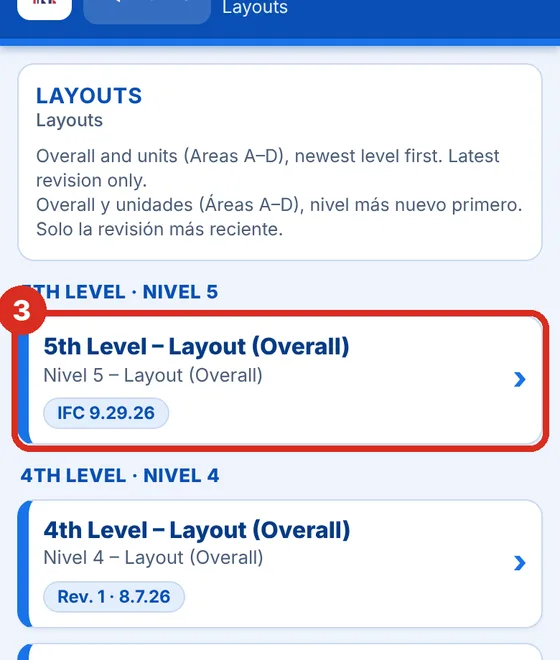
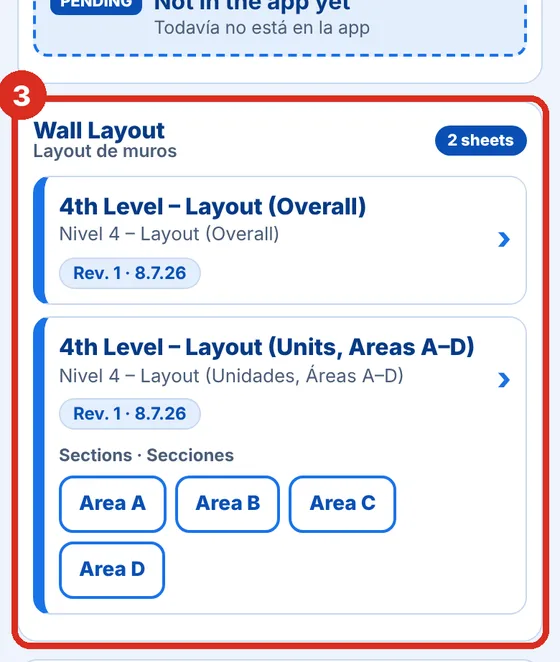
NF WALLS v2.0 (Update 2): levels 3-7, version button, section placeholders
- Home with Level 3-7 buttons; each level shows 6 formats
- Full plan plus section buttons; PENDING rows where sheets are missing
- Version button (green/yellow/red dot) and version.json check
- Window straps: install detail tab (level 3)
- Control lines and wall layout: by-section placeholders (pending)

Claude-Session: https://claude.ai/code/session_01FYN1TKzUqA6EKVSAhWFFxo

diff --git a/index.html b/index.html
@@ -109,19 +109,69 @@ button{font:inherit;color:inherit;background:none;border:0;padding:0;margin:0;cu
 .how .st img{display:block;width:100%;height:auto;border-radius:10px;border:1px solid var(--line);margin-top:8px}
 .how .air{background:var(--soft);border:2px dashed var(--nf2);border-radius:12px;padding:14px;text-align:center;margin-top:8px;font-weight:800;color:var(--nfd);font-size:16px}
 .how .air span{display:block;font-size:34px;line-height:1.1}
+
+/* update 2 */
+.hdr .upd{display:inline-flex;align-items:center;gap:6px;padding:4px 10px;min-height:30px;cursor:pointer;font-size:12px}
+.hdr .upd:active{background:rgba(255,255,255,.3)}
+.hdr .updbar{padding-bottom:2px}
+.vdot{display:inline-block;width:13px;height:13px;border-radius:50%;border:2px solid #fff;background:#facc15;flex:0 0 auto}
+.vdot.g{background:#22c55e}.vdot.r{background:#ef4444}
+.lvb{display:flex;align-items:center;gap:12px;width:100%;text-align:left;background:#fff;border:2px solid var(--line);border-left:8px solid var(--nf2);border-radius:14px;padding:10px 12px;margin:0 0 10px 0;min-height:70px;box-shadow:0 1px 2px rgba(7,58,133,.08)}
+.lvb:active{background:var(--soft)}
+.lvb .num{flex:0 0 52px;height:52px;border-radius:12px;background:var(--nf);color:#fff;font-weight:800;font-size:30px;display:flex;align-items:center;justify-content:center}
+.lvb .tx{flex:1 1 auto;min-width:0}
+.lvb .n{font-weight:800;font-size:17px;color:var(--nfd)}
+.lvb .b{font-size:12.5px;color:var(--muted)}
+.lvb .go{font-size:24px;color:var(--nf2);font-weight:800}
+.lvb.empty .num{background:#fff;color:var(--nf);border:2px dashed var(--nf2)}
+.typebar{display:flex;gap:6px;flex-wrap:wrap;margin-top:4px}
+.typebar button{flex:1 1 auto;min-height:44px;border:2px solid var(--nf2);border-radius:10px;color:var(--nf);font-weight:700;background:#fff;padding:6px 10px;font-size:14px}
+.slot{background:#fff;border:1px solid var(--line);border-radius:14px;padding:10px;margin:0 0 12px 0}
+.slot .sh{display:flex;align-items:center;gap:8px;margin:0 0 8px 0}
+.slot .s1{flex:1 1 auto;font-weight:800;font-size:16px;color:var(--nfd);line-height:1.15}
+.slot .s1 small{display:block;font-weight:600;font-size:12.5px;color:var(--muted)}
+.bdg{flex:0 0 auto;font-size:11px;font-weight:800;border-radius:999px;padding:3px 9px}
+.bdg.ok{background:var(--nf);color:#fff}
+.bdg.pe{background:#fff;color:var(--nf);border:2px dashed var(--nf2)}
+.lvit{border:1px solid var(--line);border-left:8px solid var(--nf2);border-radius:12px;margin:0 0 8px 0;background:#fff;overflow:hidden}
+.lvit .item{border:0;border-radius:0;margin:0;box-shadow:none;border-left:0}
+.lvit .all{display:inline-block;margin-top:6px;margin-left:6px;font-size:11.5px;font-weight:700;color:var(--nfd);background:#fff;border:1px solid var(--nf2);border-radius:999px;padding:2px 9px}
+.chips{display:flex;gap:6px;flex-wrap:wrap;align-items:center;padding:0 10px 10px 10px}
+.chips span{flex:0 0 100%;font-size:12px;font-weight:700;color:var(--muted)}
+.chip{min-height:40px;min-width:48px;border-radius:10px;border:2px solid var(--nf2);color:var(--nf);font-weight:800;padding:4px 12px;background:#fff;font-size:14px}
+.chip:active{background:var(--soft)}
+.vstat{border:3px solid var(--nf);border-radius:16px;padding:14px;background:#fff;margin:0 0 12px 0}
+.vstat .big{display:flex;align-items:center;gap:10px;font-weight:800;font-size:18px;color:var(--nfd)}
+.vstat .big .vdot{width:22px;height:22px;border-width:3px;border-color:var(--nfd)}
+.vstat p{margin:8px 0 0 0;font-size:14px;color:var(--txt)}
+.vstat p i{color:var(--muted)}
+.vstat .ubtn{margin-top:12px;display:block;width:100%;background:var(--nf);color:#fff;border-radius:12px;padding:14px;font-weight:800;font-size:16px;min-height:52px}
+.vstat .ubtn:disabled{opacity:.7}
+.vkey{display:flex;flex-direction:column;gap:6px;margin-top:10px;font-size:13px;color:var(--txt)}
+.vkey div{display:flex;align-items:center;gap:8px}
+.vkey .vdot{border-color:var(--nfd)}
+.vrow{background:#fff;border:1px solid var(--line);border-left:8px solid var(--nf2);border-radius:12px;padding:10px;margin:0 0 10px 0}
+.vrow.cur{border-left-color:var(--nf);background:var(--soft)}
+.vrow .vh{display:flex;gap:8px;align-items:center;flex-wrap:wrap}
+.vrow .vn{font-weight:800;font-size:16px;color:var(--nfd)}
+.vrow .vd{font-size:12.5px;color:var(--muted)}
+.vrow .me{font-size:11px;font-weight:800;color:#fff;background:var(--nf);border-radius:6px;padding:2px 7px}
+.vrow ul{margin:6px 0 0 18px;padding:0;font-size:13.5px}
+.vrow li i{color:var(--muted)}
 </style>
 </head>
 <body>
 <div id="app"></div>
 <div class="bottombar" id="bottombar">
   <button id="bb-home" onclick="go('#home')">Home<span>Inicio</span></button>
-  <button id="bb-cl" onclick="go('#sec--cl')">Control<span>Líneas</span></button>
-  <button id="bb-lay" onclick="go('#sec--lay')">Layouts<span>Layouts</span></button>
-  <button id="bb-sw" onclick="go('#sec--sw')">Shear<span>Shear walls</span></button>
-  <button id="bb-str" onclick="go('#sec--str')">Straps<span>Straps</span></button>
+  <button id="bb-l3" onclick="go('#lvl--3')">L3<span>Nivel 3</span></button>
+  <button id="bb-l4" onclick="go('#lvl--4')">L4<span>Nivel 4</span></button>
+  <button id="bb-l5" onclick="go('#lvl--5')">L5<span>Nivel 5</span></button>
+  <button id="bb-l6" onclick="go('#lvl--6')">L6<span>Nivel 6</span></button>
+  <button id="bb-l7" onclick="go('#lvl--7')">L7<span>Nivel 7</span></button>
 </div>
 <script>
-const DATA={"upd": {"n": 1, "date": "Nov 6, 2026"}, "sections": [{"id": "cl", "t": "Control Lines", "es": "Líneas de control", "icon": "┼", "sub": "Overall control lines. Measurements: use the overall sheet; unit-level control lines are pending (see Pending).", "sub_es": "Líneas de control overall. Medidas: usa la hoja overall; las de unidades están pendientes (ver Pendiente).", "items": [{"id": "cl3", "t": "3rd Level – Control Lines (Overall)", "es": "Nivel 3 – Líneas de control (Overall)", "rev": "W-3-10-2026", "src": "Control Lines (W-3-10-2026).pdf", "imgs": [["Overall", "cl_W3"]], "note": "Title block: Mueller Phase V West Building, 3rd level.", "note_es": "Cajetín: Mueller Phase V West Building, nivel 3."}]}, {"id": "lay", "t": "Layouts", "es": "Layouts", "icon": "▦", "sub": "Overall and units (Areas A–D), newest level first. Latest revision only.", "sub_es": "Overall y unidades (Áreas A–D), nivel más nuevo primero. Solo la revisión más reciente.", "items": [{"g": "5th Level", "g_es": "Nivel 5", "id": "l5o", "t": "5th Level – Layout (Overall)", "es": "Nivel 5 – Layout (Overall)", "rev": "IFC 9.29.26", "src": "Mueller_V_West_5th_Floor_Layout_Overall_IFC_9_29_26.pdf", "imgs": [["Overall", "L5_overall"]], "note": "Overall: door and window schedules on the left of the sheet.", "note_es": "Overall: tablas de puertas y ventanas a la izquierda de la hoja."}, {"g": "4th Level", "g_es": "Nivel 4", "id": "l4o", "t": "4th Level – Layout (Overall)", "es": "Nivel 4 – Layout (Overall)", "rev": "Rev. 1 · 8.7.26", "src": "Mueller V (West) - 4th Floor - Layout (Overall) - Rev. 1 - 8.7.26.pdf", "imgs": [["Overall", "L4_overall"]], "note": "Overall: door and window schedules on the left of the sheet.", "note_es": "Overall: tablas de puertas y ventanas a la izquierda de la hoja."}, {"g": "4th Level", "g_es": "Nivel 4", "id": "l4u", "t": "4th Level – Layout (Units, Areas A–D)", "es": "Nivel 4 – Layout (Unidades, Áreas A–D)", "rev": "Rev. 1 · 8.7.26", "src": "Mueller V (West) - 4th Floor - Layout (Area A..D) - Rev. 1 - 8.7.26.pdf", "imgs": [["Area A", "L4_A"], ["Area B", "L4_B"], ["Area C", "L4_C"], ["Area D", "L4_D"]], "note": "One sheet per area, same revision.", "note_es": "Una hoja por área, misma revisión."}, {"g": "3rd Level", "g_es": "Nivel 3", "id": "l3o", "t": "3rd Level – Layout (Overall)", "es": "Nivel 3 – Layout (Overall)", "rev": "Rev. 1 · 6/22/26", "src": "Mueller_V_West_3rd_Floor_Layout_Overall_Rev_1_6_22_26.pdf", "imgs": [["Overall", "L3_overall"]], "note": "", "note_es": ""}, {"g": "3rd Level", "g_es": "Nivel 3", "id": "l3u", "t": "3rd Level – Layout (Units, Areas A–D)", "es": "Nivel 3 – Layout (Unidades, Áreas A–D)", "rev": "PRELIMINARY · 3/1/26", "src": "AMLI_Mueller_V_West_3rd_Floor_Layout_Area_A..D_Preliminary_3_1_26.pdf", "imgs": [["Area A", "L3_A"], ["Area B", "L3_B"], ["Area C", "L3_C"], ["Area D", "L3_D"]], "note": "PRELIMINARY – no newer area sheets found. Confirm with the panel designer before using.", "note_es": "PRELIMINAR – no se encontraron hojas de áreas más nuevas. Confirma con el diseñador antes de usar.", "flag": true}]}, {"id": "sw", "t": "Shear Walls", "es": "Shear walls", "icon": "◧", "sub": "Standard notes (S0-2C Rev.2) and interior shear blocking Rev2 for levels 4, 5 and 6.", "sub_es": "Notas estándar (S0-2C Rev.2) y bloqueo de corte interior Rev2 de los niveles 4, 5 y 6.", "items": [{"id": "s02c", "t": "S0-2C – Standard Shearwall Notes & Schedules", "es": "S0-2C – Notas y tablas estándar de shear walls", "rev": "Rev.2", "src": "S0-2C-STANDARD-SHEARWALL-NOTES-AND-SCHEDULES-Rev.2.pdf", "imgs": [["S0-2C", "s02c_rev2"]], "note": "Wall types (W1, W3, W5…), sheathing and nailing schedules. Rev.2 replaces Rev.1.", "note_es": "Tipos de pared (W1, W3, W5…), tablas de sheathing y clavado. Rev.2 reemplaza a Rev.1."}, {"id": "sw4", "t": "4th Level – Shear Blocking, Interior (Rev2)", "es": "Nivel 4 – Bloqueo de corte interior (Rev2)", "rev": "Rev2 · 11/04/26", "src": "Shear Blocking Int. 4th Level - AMLI West - Rev2.pdf", "imgs": [["5A/5B", "sw4_5AB"], ["4D", "sw4_4D"], ["4C", "sw4_4C"], ["4B", "sw4_4B"], ["4A", "sw4_4A"], ["3C", "sw4_3C"], ["3B", "sw4_3B"], ["3A", "sw4_3A"]], "note": "Blocking marked in red = can be left out for plumbing (max 20% on W1/W3/W5 walls). Verify the 20% rule per level.", "note_es": "Bloqueo marcado en rojo = se puede omitir por plomería (máx. 20% en paredes W1/W3/W5). Verifica la regla del 20% por nivel."}, {"id": "sw5", "t": "5th Level – Shear Blocking, Interior (Rev2)", "es": "Nivel 5 – Bloqueo de corte interior (Rev2)", "rev": "Rev2 · 11/04/26", "src": "Shear Blocking Int. 5th Level - AMLI West - Rev2.pdf", "imgs": [["5A", "sw5_5A"], ["5B", "sw5_5B"], ["4D", "sw5_4D"], ["4C", "sw5_4C"], ["4B", "sw5_4B"], ["4A", "sw5_4A"], ["3C", "sw5_3C"], ["3B", "sw5_3B"], ["3A", "sw5_3A"]], "note": "Blocking marked in red = can be left out for plumbing (max 20% on W1/W3/W5 walls). Verify the 20% rule per level.", "note_es": "Bloqueo marcado en rojo = se puede omitir por plomería (máx. 20% en paredes W1/W3/W5). Verifica la regla del 20% por nivel."}, {"id": "sw6", "t": "6th Level – Shear Blocking, Interior (Rev2)", "es": "Nivel 6 – Bloqueo de corte interior (Rev2)", "rev": "Rev2 · 11/04/26", "src": "Shear Blocking Int. 6th Level - AMLI West - Rev2.pdf", "imgs": [["5A", "sw6_5A"], ["5B", "sw6_5B"], ["4D", "sw6_4D"], ["4C", "sw6_4C"], ["4B", "sw6_4B"], ["4A", "sw6_4A"], ["3C", "sw6_3C"], ["3B", "sw6_3B"], ["3A", "sw6_3A"]], "note": "Blocking marked in red = can be left out for plumbing (max 20% on W1/W3/W5 walls). Verify the 20% rule per level.", "note_es": "Bloqueo marcado en rojo = se puede omitir por plomería (máx. 20% en paredes W1/W3/W5). Verifica la regla del 20% por nivel."}]}, {"id": "str", "t": "Straps", "es": "Straps (FTAO)", "icon": "≡", "sub": "FTAO strap top & bottom of openings – windows.", "sub_es": "Straps FTAO arriba y abajo de aberturas – ventanas.", "items": [{"id": "str3", "t": "3rd Level – FTAO Window Straps", "es": "Nivel 3 – Straps FTAO en ventanas", "rev": "W-7-10-2026 · update 7.14.26", "src": "FTAO-WINDOW STRAPS (W-7-10-2026).pdf", "imgs": [["Plan", "straps_W7"]], "note": "Typical FTAO strapping detail is on the sheet (bottom right).", "note_es": "El detalle típico de straps FTAO está en la hoja (abajo a la derecha)."}]}], "pending": [["Control lines – units, and levels 4/5/6", "Líneas de control – unidades, y niveles 4/5/6"], ["6th Level layout (overall + areas)", "Layout nivel 6 (overall + áreas)"], ["5th Level layout – Areas A–D", "Layout nivel 5 – Áreas A–D"], ["Shear wall location plan – West", "Plano de ubicación de shear walls – West"], ["Straps for levels 4, 5 and 6", "Straps de los niveles 4, 5 y 6"]]};
+const DATA={"upd": {"n": 2, "date": "Nov 9, 2026", "v": "2.0"}, "sections": [{"id": "cl", "t": "Control Lines", "es": "Líneas de control", "icon": "┼", "sub": "Overall control lines. Measurements: use the overall sheet; unit-level control lines are pending (see Pending).", "sub_es": "Líneas de control overall. Medidas: usa la hoja overall; las de unidades están pendientes (ver Pendiente).", "items": [{"id": "cl3", "t": "3rd Level – Control Lines (Overall)", "es": "Nivel 3 – Líneas de control (Overall)", "rev": "W-3-10-2026", "src": "Control Lines (W-3-10-2026).pdf", "imgs": [["Overall", "cl_W3"]], "note": "Title block: Mueller Phase V West Building, 3rd level.", "note_es": "Cajetín: Mueller Phase V West Building, nivel 3."}]}, {"id": "lay", "t": "Layouts", "es": "Layouts", "icon": "▦", "sub": "Overall and units (Areas A–D), newest level first. Latest revision only.", "sub_es": "Overall y unidades (Áreas A–D), nivel más nuevo primero. Solo la revisión más reciente.", "items": [{"g": "5th Level", "g_es": "Nivel 5", "id": "l5o", "t": "5th Level – Layout (Overall)", "es": "Nivel 5 – Layout (Overall)", "rev": "IFC 9.29.26", "src": "Mueller_V_West_5th_Floor_Layout_Overall_IFC_9_29_26.pdf", "imgs": [["Overall", "L5_overall"]], "note": "Overall: door and window schedules on the left of the sheet.", "note_es": "Overall: tablas de puertas y ventanas a la izquierda de la hoja."}, {"g": "4th Level", "g_es": "Nivel 4", "id": "l4o", "t": "4th Level – Layout (Overall)", "es": "Nivel 4 – Layout (Overall)", "rev": "Rev. 1 · 8.7.26", "src": "Mueller V (West) - 4th Floor - Layout (Overall) - Rev. 1 - 8.7.26.pdf", "imgs": [["Overall", "L4_overall"]], "note": "Overall: door and window schedules on the left of the sheet.", "note_es": "Overall: tablas de puertas y ventanas a la izquierda de la hoja."}, {"g": "4th Level", "g_es": "Nivel 4", "id": "l4u", "t": "4th Level – Layout (Units, Areas A–D)", "es": "Nivel 4 – Layout (Unidades, Áreas A–D)", "rev": "Rev. 1 · 8.7.26", "src": "Mueller V (West) - 4th Floor - Layout (Area A..D) - Rev. 1 - 8.7.26.pdf", "imgs": [["Area A", "L4_A"], ["Area B", "L4_B"], ["Area C", "L4_C"], ["Area D", "L4_D"]], "note": "One sheet per area, same revision.", "note_es": "Una hoja por área, misma revisión."}, {"g": "3rd Level", "g_es": "Nivel 3", "id": "l3o", "t": "3rd Level – Layout (Overall)", "es": "Nivel 3 – Layout (Overall)", "rev": "Rev. 1 · 6/22/26", "src": "Mueller_V_West_3rd_Floor_Layout_Overall_Rev_1_6_22_26.pdf", "imgs": [["Overall", "L3_overall"]], "note": "", "note_es": ""}, {"g": "3rd Level", "g_es": "Nivel 3", "id": "l3u", "t": "3rd Level – Layout (Units, Areas A–D)", "es": "Nivel 3 – Layout (Unidades, Áreas A–D)", "rev": "PRELIMINARY · 3/1/26", "src": "AMLI_Mueller_V_West_3rd_Floor_Layout_Area_A..D_Preliminary_3_1_26.pdf", "imgs": [["Area A", "L3_A"], ["Area B", "L3_B"], ["Area C", "L3_C"], ["Area D", "L3_D"]], "note": "PRELIMINARY – no newer area sheets found. Confirm with the panel designer before using.", "note_es": "PRELIMINAR – no se encontraron hojas de áreas más nuevas. Confirma con el diseñador antes de usar.", "flag": true}]}, {"id": "sw", "t": "Shear Walls", "es": "Shear walls", "icon": "◧", "sub": "Standard notes (S0-2C Rev.2) and interior shear blocking Rev2 for levels 4, 5 and 6.", "sub_es": "Notas estándar (S0-2C Rev.2) y bloqueo de corte interior Rev2 de los niveles 4, 5 y 6.", "items": [{"id": "s02c", "t": "S0-2C – Standard Shearwall Notes & Schedules", "es": "S0-2C – Notas y tablas estándar de shear walls", "rev": "Rev.2", "src": "S0-2C-STANDARD-SHEARWALL-NOTES-AND-SCHEDULES-Rev.2.pdf", "imgs": [["S0-2C", "s02c_rev2"]], "note": "Wall types (W1, W3, W5…), sheathing and nailing schedules. Rev.2 replaces Rev.1.", "note_es": "Tipos de pared (W1, W3, W5…), tablas de sheathing y clavado. Rev.2 reemplaza a Rev.1."}, {"id": "sw4", "t": "4th Level – Shear Blocking, Interior (Rev2)", "es": "Nivel 4 – Bloqueo de corte interior (Rev2)", "rev": "Rev2 · 11/04/26", "src": "Shear Blocking Int. 4th Level - AMLI West - Rev2.pdf", "imgs": [["5A/5B", "sw4_5AB"], ["4D", "sw4_4D"], ["4C", "sw4_4C"], ["4B", "sw4_4B"], ["4A", "sw4_4A"], ["3C", "sw4_3C"], ["3B", "sw4_3B"], ["3A", "sw4_3A"]], "note": "Blocking marked in red = can be left out for plumbing (max 20% on W1/W3/W5 walls). Verify the 20% rule per level.", "note_es": "Bloqueo marcado en rojo = se puede omitir por plomería (máx. 20% en paredes W1/W3/W5). Verifica la regla del 20% por nivel."}, {"id": "sw5", "t": "5th Level – Shear Blocking, Interior (Rev2)", "es": "Nivel 5 – Bloqueo de corte interior (Rev2)", "rev": "Rev2 · 11/04/26", "src": "Shear Blocking Int. 5th Level - AMLI West - Rev2.pdf", "imgs": [["5A", "sw5_5A"], ["5B", "sw5_5B"], ["4D", "sw5_4D"], ["4C", "sw5_4C"], ["4B", "sw5_4B"], ["4A", "sw5_4A"], ["3C", "sw5_3C"], ["3B", "sw5_3B"], ["3A", "sw5_3A"]], "note": "Blocking marked in red = can be left out for plumbing (max 20% on W1/W3/W5 walls). Verify the 20% rule per level.", "note_es": "Bloqueo marcado en rojo = se puede omitir por plomería (máx. 20% en paredes W1/W3/W5). Verifica la regla del 20% por nivel."}, {"id": "sw6", "t": "6th Level – Shear Blocking, Interior (Rev2)", "es": "Nivel 6 – Bloqueo de corte interior (Rev2)", "rev": "Rev2 · 11/04/26", "src": "Shear Blocking Int. 6th Level - AMLI West - Rev2.pdf", "imgs": [["5A", "sw6_5A"], ["5B", "sw6_5B"], ["4D", "sw6_4D"], ["4C", "sw6_4C"], ["4B", "sw6_4B"], ["4A", "sw6_4A"], ["3C", "sw6_3C"], ["3B", "sw6_3B"], ["3A", "sw6_3A"]], "note": "Blocking marked in red = can be left out for plumbing (max 20% on W1/W3/W5 walls). Verify the 20% rule per level.", "note_es": "Bloqueo marcado en rojo = se puede omitir por plomería (máx. 20% en paredes W1/W3/W5). Verifica la regla del 20% por nivel."}]}, {"id": "str", "t": "Straps", "es": "Straps (FTAO)", "icon": "≡", "sub": "FTAO strap top & bottom of openings – windows.", "sub_es": "Straps FTAO arriba y abajo de aberturas – ventanas.", "items": [{"id": "str3", "t": "3rd Level – FTAO Window Straps", "es": "Nivel 3 – Straps FTAO en ventanas", "rev": "W-7-10-2026 · update 7.14.26", "src": "FTAO-WINDOW STRAPS (W-7-10-2026).pdf", "imgs": [["Plan", "straps_W7"], ["Install detail", "straps_W7_detail"]], "note": "Install detail tab = the typical FTAO strapping detail from this sheet. Per its notes: straps go on the EXTERIOR over the structural panel sheathing; install as close to the opening as possible (offset max 2 in. if needed); add blocking as required. The engineer sheet governs.", "note_es": "Pestaña Install detail = el detalle típico de straps FTAO de esta hoja. Según sus notas: los straps van en el EXTERIOR sobre el sheathing estructural; instálalos lo más cerca posible de la abertura (desfase máx. 2 pulg. si hace falta); agrega blocking según se requiera. Manda la hoja del ingeniero.", "cl": ["Views", "Vistas"]}]}], "pending": [["Overall control lines and overall wall layouts split into sections (section structure per level needed)", "Líneas de control y layouts de muros overall divididos en secciones (falta la estructura de secciones por nivel)"], ["Control lines – by unit, and levels 4/5/6", "Líneas de control – por unidad, y niveles 4/5/6"], ["Wall Panel Layout – all levels (sheet to be confirmed)", "Layout de paneles de muro – todos los niveles (hoja por confirmar)"], ["Sill plate connection / shear wall location plan – West", "Conexión de sill plate / plano de ubicación de shear walls – West"], ["Layout level 6 (overall + areas) and level 5 Areas A–D", "Layout nivel 6 (overall + áreas) y nivel 5 Áreas A–D"], ["Window straps for levels 4, 5 and 6", "Straps de ventanas de los niveles 4, 5 y 6"], ["All sheets for level 7", "Todas las hojas del nivel 7"], ["Millwork by level and section", "Millwork por nivel y sección"]], "versions": [{"v": "2.0", "n": 2, "date": "Nov 9, 2026", "items": [["Home now has Level 3–7 buttons; each level shows its formats.", "Inicio con botones de Nivel 3–7; cada nivel muestra sus formatos."], ["Full plan plus section buttons under each sheet.", "Plano completo y botones de sección debajo de cada hoja."], ["Version button (top right) with green / yellow / red dot.", "Botón de versión (arriba a la derecha) con punto verde / amarillo / rojo."], ["Window straps: install detail tab (level 3).", "Straps de ventanas: pestaña de detalle de instalación (nivel 3)."], ["Control lines and wall layout: section buttons are marked PENDING until the section sheets arrive.", "Líneas de control y layout de muros: los botones de sección dicen PENDING hasta que lleguen las hojas por sección."]]}, {"v": "1.2", "n": 1, "date": "Nov 7, 2026", "items": [["HOW IT WORKS page (5 steps).", "Página CÓMO FUNCIONA (5 pasos)."]]}, {"v": "1.1", "n": 1, "date": "Nov 7, 2026", "items": [["DOWNLOAD APP button.", "Botón DESCARGAR APP."]]}, {"v": "1.0", "n": 1, "date": "Nov 6, 2026", "items": [["First release: Control Lines, Layouts, Shear Walls, Straps (West, latest only).", "Primera versión: Control Lines, Layouts, Shear Walls, Straps (West, solo lo más reciente)."]]}]};
 const SEC=Object.fromEntries(DATA.sections.map(s=>[s.id,s]));
 const ITEM={}; DATA.sections.forEach(s=>s.items.forEach(i=>{ITEM[i.id]=Object.assign({sec:s.id},i);}));
 function imgSrc(k){ return 'img/'+k+'.webp'; }
@@ -185,21 +235,23 @@ function makeViewer(el, srcKey, opts){
 }
 function go(h){ if(location.hash===h) render(); else location.hash=h; }
 window.addEventListener('hashchange',()=>{ render(); window.scrollTo(0,0); });
-function parseRoute(){ const h=(location.hash||'#home').slice(1).split('--'); return {view:h[0]||'home',arg:h[1]||null,tab:parseInt(h[2]||'0',10)||0}; }
+function parseRoute(){ const h=(location.hash||'#home').slice(1).split('--'); return {view:h[0]||'home',arg:h[1]||null,tab:parseInt(h[2]||'0',10)||0,lvl:parseInt(h[3]||'0',10)||0}; }
 function header(back,t1,t2){ const U=DATA.upd;
-  return `<div class="hdr"><div class="updbar"><div class="upd">UPDATE ${U.n}<i>· ${esc(U.date)}</i></div></div><div class="row"><img class="logo" src="header-mark.png" alt="NF">${back?`<button class="back" onclick="${back.fn}">◀ ${esc(back.label)}</button>`:''}<div class="ttl"><div class="t1">${t1}</div><div class="t2">${t2}</div></div></div><div class="stripe"></div></div>`; }
-function setBB(w){ for(const k of ['home','cl','lay','sw','str']){ const b=document.getElementById('bb-'+k); if(b) b.classList.toggle('on',k===w); } }
+  return `<div class="hdr"><div class="updbar"><button class="upd" onclick="go('#ver')" aria-label="Version and updates">UPDATE ${U.n}<i>· ${esc(U.date)}</i><i class="vdot ${(window.NFV||{st:'y'}).st}"></i></button></div><div class="row"><img class="logo" src="header-mark.png" alt="NF">${back?`<button class="back" onclick="${back.fn}">◀ ${esc(back.label)}</button>`:''}<div class="ttl"><div class="t1">${t1}</div><div class="t2">${t2}</div></div></div><div class="stripe"></div></div>`; }
+function setBB(w){ for(const k of ['home','l3','l4','l5','l6','l7']){ const b=document.getElementById('bb-'+k); if(b) b.classList.toggle('on',k===w); } }
 function render(){ const r=parseRoute(), app=document.getElementById('app');
   if(r.view==='sec'&&SEC[r.arg]) renderSec(app,SEC[r.arg]);
-  else if(r.view==='item'&&ITEM[r.arg]) renderItem(app,ITEM[r.arg],r.tab);
+  else if(r.view==='item'&&ITEM[r.arg]) renderItem(app,ITEM[r.arg],r.tab,r.lvl);
+  else if(r.view==='lvl'&&LEVELS[r.arg]) renderLevel(app,+r.arg);
+  else if(r.view==='ver') renderVer(app);
   else if(r.view==='how') renderHow(app);
   else renderHome(app); }
 function renderHome(app){ setBB('home');
   const n=DATA.sections.reduce((a,s)=>a+s.items.length,0);
   app.innerHTML=header(null,'NF WALLS','AMLI Mueller V (West) · Walls') + `<div class="wrap">
-  <div class="card title-card"><img src="header-logo.png" alt="National Framing" style="height:46px;width:auto;border-radius:8px;margin-bottom:10px;display:block"><div class="big">NF WALLS</div><div class="sub">AMLI Mueller V (West) – Control lines, layouts, shear walls and straps. Latest versions only.<br>Líneas de control, layouts, shear walls y straps. Solo las versiones más recientes.</div><div class="meta">${n} sheets · National Framing · ${esc(DATA.upd.date)}</div></div>
+  <div class="card title-card"><img src="header-logo.png" alt="National Framing" style="height:46px;width:auto;border-radius:8px;margin-bottom:10px;display:block"><div class="big">NF WALLS</div><div class="sub">AMLI Mueller V (West) – Control lines, layouts, shear walls and straps, by level (3–7). Latest versions only.<br>Líneas de control, layouts, shear walls y straps, por nivel (3–7). Solo las versiones más recientes.</div><div class="meta">${n} sheets · National Framing · ${esc(DATA.upd.date)}</div></div>
   ${installCard()}${howCard()}
-  <div class="card"><h2>Sections <small>Secciones</small></h2><div class="grid">${DATA.sections.map(s=>`<button class="sbtn" onclick="go('#sec--${s.id}')"><span class="ic">${s.icon}</span><span class="n">${esc(s.t)}</span><span class="b">${esc(s.es)} · ${s.items.length} ${s.items.length>1?'sheets':'sheet'}</span></button>`).join('')}</div></div>
+  ${levelsCard()}
   <div class="card"><h2>Pending <small>Pendiente – not in the app yet / todavía no está en la app</small></h2>${DATA.pending.map(p=>`<div class="pend"><span class="tag">PENDING</span><div><b>${esc(p[0])}</b><span class="es">${esc(p[1])}</span></div></div>`).join('')}</div>
   <div class="foot">Phone app · works offline once opened / funciona sin internet después de abrirla.</div></div>`; }
 function itemCard(it){ return `<button class="item" onclick="go('#item--${it.id}')"><div class="body"><div class="id">${esc(it.t)}</div><div class="nm">${esc(it.es)}</div><span class="rev ${it.flag?'flag':''}">${esc(it.rev)}</span></div><span class="go">›</span></button>`; }
@@ -207,19 +259,6 @@ function renderSec(app,s){ setBB(s.id);
   let html='', last=null;
   s.items.forEach(it=>{ if(it.g && it.g!==last){ html+=`<div class="fam">${esc(it.g)} · ${esc(it.g_es)}</div>`; last=it.g; } html+=itemCard(it); });
   app.innerHTML=header({label:'Home',fn:"go('#home')"},esc(s.t),esc(s.es)) + `<div class="wrap"><div class="card"><h2>${esc(s.t)} <small>${esc(s.es)}</small></h2><div class="hint" style="margin:0">${esc(s.sub)}<br>${esc(s.sub_es)}</div></div>${html}</div>`; }
-function renderItem(app,it,tab){ const s=SEC[it.sec]; setBB(s.id);
-  const list=s.items, i=list.findIndex(x=>x.id===it.id), prev=list[i-1], next=list[i+1];
-  const imgs=it.imgs; tab=Math.min(Math.max(tab,0),imgs.length-1);
-  app.innerHTML=header({label:s.t,fn:`go('#sec--${s.id}')`},esc(it.t),esc(it.rev)) + `<div class="wrap">
-  <div class="card"><h2>${esc(it.t)} <small>${esc(it.es)}</small></h2>
-  <div class="meta2"><b>${esc(it.rev)}</b> · ${esc(it.src)}</div>
-  ${imgs.length>1?`<div class="tabs">${imgs.map((m,k)=>`<button class="tab ${k===tab?'on':''}" onclick="go('#item--${it.id}--${k}')">${esc(m[0])}</button>`).join('')}</div>`:''}
-  <div class="viewer" id="v"></div>
-  <div class="hint">Pinch to zoom, drag to move, double-tap to zoom, ⤢ for full height. / Pellizca para acercar, arrastra para mover, doble toque para acercar, ⤢ pantalla alta.</div>
-  ${it.note?`<div class="hint"><b>${esc(it.note)}</b><br>${esc(it.note_es)}</div>`:''}</div>
-  <div class="nav2">${prev?`<button class="btn sec" onclick="go('#item--${prev.id}')">‹ Prev</button>`:''}${next?`<button class="btn sec" onclick="go('#item--${next.id}')">Next ›</button>`:''}</div></div>`;
-  makeViewer(document.getElementById('v'),imgs[tab][1],{}); }
-
 /* ---------- install button ---------- */
 window._nfDP=null;
 window.addEventListener('beforeinstallprompt',e=>{ e.preventDefault(); window._nfDP=e; });
@@ -255,12 +294,99 @@ function renderHow(app){ setBB('home');
   app.innerHTML=header({label:'Home',fn:"go('#home')"},'How it works','Cómo funciona') + `<div class="wrap how">
   <div class="card"><h2>5 simple steps <small>5 pasos simples</small></h2><div class="hint" style="margin:0">Red boxes show where to tap. / Los recuadros rojos muestran dónde tocar.</div></div>
   ${st(1,'Install the app','Instala la app','Open the link in <b>Safari</b> (iPhone) or <b>Chrome</b> (Android) – not inside Telegram. Tap <b>DOWNLOAD APP</b> and follow the steps. The blue NF WALLS icon appears on your home screen.','Abre el enlace en <b>Safari</b> (iPhone) o <b>Chrome</b> (Android) – no dentro de Telegram. Toca <b>DESCARGAR APP</b> y sigue los pasos. El ícono azul NF WALLS aparece en tu pantalla de inicio.','how1')}
-  ${st(2,'Pick a section','Elige una sección','Control Lines, Layouts, Shear Walls or Straps.','Líneas de control, Layouts, Shear walls o Straps.','how2')}
-  ${st(3,'Tap a sheet','Toca una hoja','Each card shows the level and the <b>latest revision</b> only.','Cada tarjeta muestra el nivel y solo la <b>revisión más reciente</b>.','how3')}
+  ${st(2,'Pick a level','Elige un nivel','Tap Level 3, 4, 5, 6 or 7. Each level lists its formats: Control Lines, Wall Layout, Wall Panel Layout, Shear Walls, Window Straps, Millwork.','Toca Nivel 3, 4, 5, 6 o 7. Cada nivel muestra sus formatos: Control Lines, Wall Layout, Wall Panel Layout, Shear Walls, Window Straps, Millwork.','how2')}
+  ${st(3,'Open the full plan or a section','Abre el plano completo o una sección','Tap the sheet card for the <b>full plan</b>. Under it, tap <b>A, B, C…</b> to jump to one section. Each card shows only the <b>latest revision</b>.','Toca la tarjeta para el <b>plano completo</b>. Debajo, toca <b>A, B, C…</b> para ir a una sección. Cada tarjeta muestra solo la <b>revisión más reciente</b>.','how3')}
   ${st(4,'Zoom and move','Acerca y mueve','<b>Pinch</b> to zoom, <b>drag</b> to move, <b>double-tap</b> to zoom in. Use <b>FIT</b> to see the full sheet. Use the tabs when a sheet has several areas.','<b>Pellizca</b> para acercar, <b>arrastra</b> para mover, <b>doble toque</b> para acercar. <b>FIT</b> muestra la hoja completa. Usa las pestañas cuando hay varias áreas.','how4')}
   ${st(5,'Use it with no signal','Úsala sin señal','Open the app <b>once with signal</b> and wait for Home. After that it works offline. Test: turn on airplane mode and open a sheet.','Abre la app <b>una vez con señal</b> y espera a que cargue Home. Después funciona sin internet. Prueba: activa modo avión y abre una hoja.',null,'<div class="air"><span>✈</span>Airplane mode ON – still works<br><small style="font-weight:600;color:var(--muted)">Modo avión – sigue funcionando</small></div>')}
+  <div class="card"><h2>UPDATE button <small>Botón de versión (arriba a la derecha)</small></h2><div class="hint" style="margin:0">Tap <b>UPDATE</b> at the top right. <b>Green</b> dot = latest version. <b>Yellow</b> = cannot check (no signal). <b>Red</b> = new version, tap UPDATE NOW. / Toca <b>UPDATE</b> arriba a la derecha. Punto <b>verde</b> = última versión. <b>Amarillo</b> = no se puede verificar (sin señal). <b>Rojo</b> = versión nueva, toca ACTUALIZAR.</div></div>
   <div class="card"><h2>PENDING <small>Pendiente</small></h2><div class="hint" style="margin:0">A card marked <b>PENDING</b> means that sheet is not in the app yet. / Una tarjeta <b>PENDING</b> significa que esa hoja todavía no está en la app.</div></div>
   <button class="btn" onclick="go('#home')">◀ Home · Inicio</button></div>`; }
+
+
+/* ---------- update 2 ---------- */
+const NF_BUILD=200;
+const SLOTS=[['cl','Control Lines','Líneas de control'],['lay','Wall Layout','Layout de muros'],['pan','Wall Panel Layout','Layout de paneles de muro'],['sw','Shear Walls · Sill Plate','Shear walls · Sill plate'],['str','Window Straps (FTAO)','Straps de ventanas (FTAO)'],['mw','Millwork','Millwork']];
+const LEVELS={3:{cl:['cl3'],lay:['l3o','l3u'],sw:['s02c'],str:['str3']},4:{lay:['l4o','l4u'],sw:['s02c','sw4']},5:{lay:['l5o'],sw:['s02c','sw5']},6:{sw:['s02c','sw6']},7:{sw:['s02c']}};
+const LGEN=['s02c'];
+const LXTRA={
+ '3-cl':[['Control lines by unit (sections)','Líneas de control por unidad (secciones)']],
+ '3-sw':[['Sill plate connection / shear wall location plan','Conexión de sill plate / plano de ubicación de shear walls']],
+ '4-sw':[['Sill plate connection / shear wall location plan','Conexión de sill plate / plano de ubicación de shear walls']],
+ '5-sw':[['Sill plate connection / shear wall location plan','Conexión de sill plate / plano de ubicación de shear walls']],
+ '6-sw':[['Sill plate connection / shear wall location plan','Conexión de sill plate / plano de ubicación de shear walls']],
+ '7-sw':[['Sill plate connection / shear wall location plan','Conexión de sill plate / plano de ubicación de shear walls']],
+ /* ---------- update 2 sections ---------- */
+  '3-lay':[['Overall layout – split by section','Layout overall – dividido por sección']],
+  '4-lay':[['Overall layout – split by section','Layout overall – dividido por sección']],
+  '6-lay':[['Layout – overall + by section','Layout – overall + por sección']],
+  '7-lay':[['Layout – overall + by section','Layout – overall + por sección']],
+  '4-cl':[['Control lines – overall + by section','Líneas de control – overall + por sección']],
+  '5-cl':[['Control lines – overall + by section','Líneas de control – overall + por sección']],
+  '6-cl':[['Control lines – overall + by section','Líneas de control – overall + por sección']],
+  '7-cl':[['Control lines – overall + by section','Líneas de control – overall + por sección']],
+  '5-lay':[['Layout Areas A–D','Layout Áreas A–D'],['Overall layout – split by section','Layout overall – dividido por sección']]
+};
+function lvSlots(L){ return SLOTS.map(s=>({k:s[0],t:s[1],es:s[2],ids:(LEVELS[L]||{})[s[0]]||[]})); }
+function lvFlat(L){ const a=[]; lvSlots(L).forEach(s=>s.ids.forEach(i=>{ if(a.indexOf(i)<0) a.push(i); })); return a; }
+function lvCount(L){ return lvSlots(L).filter(s=>s.ids.some(i=>LGEN.indexOf(i)<0)).length; }
+function lvSheets(L){ return lvFlat(L).filter(i=>LGEN.indexOf(i)<0).length; }
+function pendRow(en,es){ return `<div class="pend"><span class="tag">PENDING</span><div><b>${esc(en)}</b><span class="es">${esc(es)}</span></div></div>`; }
+
+/* version / update indicator: g = latest, y = cannot check (no signal), r = newer version available */
+window.NFV={st:'y',latest:null,at:null};
+function vdot(){ return `<i class="vdot ${NFV.st}"></i>`; }
+function setDots(){ document.querySelectorAll('.hdr .upd .vdot').forEach(d=>{ d.className='vdot '+NFV.st; }); const s=document.getElementById('vstat'); if(s) s.innerHTML=verStatus(); }
+function checkVer(){ return fetch('version.json?t='+Date.now(),{cache:'no-store'}).then(r=>{ if(!r.ok) throw new Error('x'); return r.json(); }).then(j=>{ NFV.latest=j; NFV.st=(j.b>NF_BUILD)?'r':'g'; NFV.at=Date.now(); try{ localStorage.setItem('nfwalls_chk',String(NFV.at)); }catch(e){} }).catch(()=>{ NFV.st='y'; }).then(setDots); }
+window.addEventListener('online',checkVer);
+document.addEventListener('visibilitychange',()=>{ if(!document.hidden) checkVer(); });
+function lastChk(){ let t=NFV.at; if(!t){ try{ t=parseInt(localStorage.getItem('nfwalls_chk')||'0',10)||null; }catch(e){} } return t?new Date(t).toLocaleString():null; }
+function verStatus(){
+  const U=DATA.upd, lc=lastChk();
+  if(NFV.st==='g') return `<div class="big"><i class="vdot g"></i>Up to date · Actualizada</div><p>You have the latest version (${esc(U.v)}).</p><p><i>Tienes la última versión (${esc(U.v)}).</i></p>`;
+  if(NFV.st==='r') return `<div class="big"><i class="vdot r"></i>New version available · Hay versión nueva</div><p>Version ${esc(NFV.latest&&NFV.latest.v||'')} is ready. You have ${esc(U.v)}. Tap UPDATE with signal and keep the app open.</p><p><i>La versión ${esc(NFV.latest&&NFV.latest.v||'')} está lista. Tienes la ${esc(U.v)}. Toca ACTUALIZAR con señal y deja la app abierta.</i></p><button class="ubtn" id="nfUpd" onclick="nfUpdate()">UPDATE NOW · ACTUALIZAR</button>`;
+  return `<div class="big"><i class="vdot y"></i>Cannot check now · No se puede verificar</div><p>No signal, so the app cannot tell if there is a newer version. You have version ${esc(U.v)}. It still works offline.${lc?' Last check: '+esc(lc)+'.':''}</p><p><i>Sin señal, la app no puede saber si hay versión nueva. Tienes la versión ${esc(U.v)}. Sigue funcionando sin internet.${lc?' Última revisión: '+esc(lc)+'.':''}</i></p>`; }
+function nfUpdate(){ const b=document.getElementById('nfUpd'); if(b){ b.disabled=true; b.textContent='Updating… keep the app open with signal · Actualizando… deja la app abierta con señal'; }
+  if('serviceWorker' in navigator){ navigator.serviceWorker.getRegistration().then(r=>{ if(r) return r.update(); }).catch(()=>{}); setTimeout(()=>{ const x=document.getElementById('nfUpd'); if(x){ x.disabled=false; x.textContent='Try again · Intentar otra vez'; } },90000); } else { location.reload(); } }
+function renderVer(app){ setBB('home');
+  const vs=(DATA.versions||[]).slice(0,10);
+  app.innerHTML=header({label:'Home',fn:"go('#home')"},'Versions','Versiones') + `<div class="wrap">
+  <div class="vstat" id="vstat">${verStatus()}</div>
+  <div class="card"><h2>Dot colors <small>Colores del punto</small></h2><div class="vkey"><div><i class="vdot g"></i><span><b>Green</b> – latest version · <i>última versión</i></span></div><div><i class="vdot y"></i><span><b>Yellow</b> – cannot check (no signal) · <i>no se puede verificar (sin señal)</i></span></div><div><i class="vdot r"></i><span><b>Red</b> – newer version available, tap UPDATE · <i>hay versión nueva, toca ACTUALIZAR</i></span></div></div></div>
+  <div class="card"><h2>Last ${vs.length} versions <small>Últimas ${vs.length} versiones</small></h2></div>
+  ${vs.map(v=>`<div class="vrow ${v.v===DATA.upd.v?'cur':''}"><div class="vh"><span class="vn">v${esc(v.v)} · Update ${esc(v.n)}</span><span class="vd">${esc(v.date)}</span>${v.v===DATA.upd.v?'<span class="me">YOU HAVE THIS · TIENES ESTA</span>':''}</div><ul>${v.items.map(i=>`<li>${esc(i[0])}<br><i>${esc(i[1])}</i></li>`).join('')}</ul></div>`).join('')}
+  <button class="btn" onclick="go('#home')">◀ Home · Inicio</button></div>`;
+  checkVer(); }
+
+function lvItem(id,L){ const it=ITEM[id]; const cl=it.cl||['Sections','Secciones'];
+  const chips=it.imgs.length>1?`<div class="chips"><span>${cl[0]} · ${cl[1]}</span>${it.imgs.map((m,k)=>`<button class="chip" onclick="go('#item--${id}--${k}--${L}')">${esc(m[0])}</button>`).join('')}</div>`:'';
+  return `<div class="lvit"><button class="item" onclick="go('#item--${id}--0--${L}')"><div class="body"><div class="id">${esc(it.t)}</div><div class="nm">${esc(it.es)}</div><span class="rev ${it.flag?'flag':''}">${esc(it.rev)}</span>${LGEN.indexOf(id)>=0?'<span class="all">All levels · Todos los niveles</span>':''}</div><span class="go">›</span></button>${chips}</div>`; }
+function slotCard(L,s){ const ex=LXTRA[L+'-'+s.k]||[];
+  const head=`<div class="sh"><div class="s1">${esc(s.t)}<small>${esc(s.es)}</small></div><span class="bdg ${s.ids.length?'ok':'pe'}">${s.ids.length?(s.ids.length+(s.ids.length>1?' sheets':' sheet')):'PENDING'}</span></div>`;
+  let body=s.ids.map(id=>lvItem(id,L)).join('')+ex.map(p=>pendRow(p[0],p[1])).join('');
+  if(!s.ids.length&&!ex.length) body=pendRow('Not in the app yet','Todavía no está en la app');
+  return `<div class="slot">${head}${body}</div>`; }
+function renderLevel(app,L){ setBB('l'+L);
+  const n=lvCount(L), tot=SLOTS.length;
+  app.innerHTML=header({label:'Home',fn:"go('#home')"},'Level '+L,'Nivel '+L+' · AMLI Mueller V (West)') + `<div class="wrap">
+  <div class="card"><h2>Level ${L} <small>Nivel ${L}</small></h2><div class="hint" style="margin:0">${n} of ${tot} formats have sheets. Open the <b>full plan</b>, or jump to one <b>section</b> with the buttons under each sheet.<br>${n} de ${tot} formatos tienen hojas. Abre el <b>plano completo</b> o salta a una <b>sección</b> con los botones debajo de cada hoja.</div></div>
+  ${lvSlots(L).map(s=>slotCard(L,s)).join('')}</div>`; }
+function levelsCard(){ return `<div class="card"><h2>Levels <small>Niveles – pick one / elige uno</small></h2>${[3,4,5,6,7].map(L=>{ const n=lvCount(L), sh=lvSheets(L); return `<button class="lvb ${sh?'':'empty'}" onclick="go('#lvl--${L}')"><span class="num">${L}</span><span class="tx"><span class="n">Level ${L} · Nivel ${L}</span><br><span class="b">${n} of ${SLOTS.length} formats · ${sh} ${sh===1?'sheet':'sheets'}${sh?'':' – PENDING'}</span></span><span class="go">›</span></button>`; }).join('')}
+  <div class="hint" style="margin:6px 2px 6px 2px"><b>Browse by type · Ver por tipo</b></div><div class="typebar">${DATA.sections.map(s=>`<button onclick="go('#sec--${s.id}')">${esc(s.t)}</button>`).join('')}</div></div>`; }
+function renderItem(app,it,tab,L){ const s=SEC[it.sec]; const lv=(L&&LEVELS[L])?L:0; setBB(lv?'l'+lv:s.id);
+  let list,back; if(lv){ list=lvFlat(lv).map(i=>ITEM[i]); back={label:'Level '+lv,fn:`go('#lvl--${lv}')`}; } else { list=s.items; back={label:s.t,fn:`go('#sec--${s.id}')`}; }
+  const q=lv?`--${lv}`:'';
+  const i=list.findIndex(x=>x.id===it.id), prev=list[i-1], next=list[i+1];
+  const imgs=it.imgs; tab=Math.min(Math.max(tab,0),imgs.length-1); const cl=it.cl||['Sections','Secciones'];
+  app.innerHTML=header(back,esc(it.t),esc(it.rev)) + `<div class="wrap">
+  <div class="card"><h2>${esc(it.t)} <small>${esc(it.es)}</small></h2>
+  <div class="meta2"><b>${esc(it.rev)}</b> · ${esc(it.src)}</div>
+  ${imgs.length>1?`<div class="tabs">${imgs.map((m,k)=>`<button class="tab ${k===tab?'on':''}" onclick="go('#item--${it.id}--${k}${q}')">${esc(m[0])}</button>`).join('')}</div>`:''}
+  <div class="viewer" id="v"></div>
+  <div class="hint">Pinch to zoom, drag to move, double-tap to zoom, ⤢ for full height. / Pellizca para acercar, arrastra para mover, doble toque para acercar, ⤢ pantalla alta.</div>
+  ${it.note?`<div class="hint"><b>${esc(it.note)}</b><br>${esc(it.note_es)}</div>`:''}</div>
+  <div class="nav2">${prev?`<button class="btn sec" onclick="go('#item--${prev.id}--0${q}')">‹ Prev</button>`:''}${next?`<button class="btn sec" onclick="go('#item--${next.id}--0${q}')">Next ›</button>`:''}</div></div>`;
+  makeViewer(document.getElementById('v'),imgs[tab][1],{}); }
+checkVer();
 
 render();
 </script>

diff --git a/service-worker.js b/service-worker.js
@@ -1,7 +1,8 @@
 // NF WALLS service worker - cache-first, offline. Bump CACHE_VERSION on every release (and NF_UPDATE in index.html).
-const CACHE_VERSION = 'nf-walls-v1-2';
-const PRECACHE_URLS = ["./", "index.html", "manifest.json", "header-logo.png", "header-mark.png", "icon-152.png", "icon-167.png", "icon-180.png", "icon-192.png", "icon-512.png", "img/how1.webp", "img/how2.webp", "img/how3.webp", "img/how4.webp", "img/L3_A.webp", "img/L3_B.webp", "img/L3_C.webp", "img/L3_D.webp", "img/L3_overall.webp", "img/L4_A.webp", "img/L4_B.webp", "img/L4_C.webp", "img/L4_D.webp", "img/L4_overall.webp", "img/L5_overall.webp", "img/cl_W3.webp", "img/s02c_rev2.webp", "img/straps_W7.webp", "img/sw4_3A.webp", "img/sw4_3B.webp", "img/sw4_3C.webp", "img/sw4_4A.webp", "img/sw4_4B.webp", "img/sw4_4C.webp", "img/sw4_4D.webp", "img/sw4_5AB.webp", "img/sw5_3A.webp", "img/sw5_3B.webp", "img/sw5_3C.webp", "img/sw5_4A.webp", "img/sw5_4B.webp", "img/sw5_4C.webp", "img/sw5_4D.webp", "img/sw5_5A.webp", "img/sw5_5B.webp", "img/sw6_3A.webp", "img/sw6_3B.webp", "img/sw6_3C.webp", "img/sw6_4A.webp", "img/sw6_4B.webp", "img/sw6_4C.webp", "img/sw6_4D.webp", "img/sw6_5A.webp", "img/sw6_5B.webp"];
+const CACHE_VERSION = 'nf-walls-v2-0';
+const PRECACHE_URLS = ["./", "index.html", "manifest.json", "header-logo.png", "header-mark.png", "icon-152.png", "icon-167.png", "icon-180.png", "icon-192.png", "icon-512.png", "img/how1.webp", "img/how2.webp", "img/how3.webp", "img/how4.webp", "img/L3_A.webp", "img/L3_B.webp", "img/L3_C.webp", "img/L3_D.webp", "img/L3_overall.webp", "img/L4_A.webp", "img/L4_B.webp", "img/L4_C.webp", "img/L4_D.webp", "img/L4_overall.webp", "img/L5_overall.webp", "img/cl_W3.webp", "img/s02c_rev2.webp", "img/straps_W7.webp", "img/straps_W7_detail.webp", "img/sw4_3A.webp", "img/sw4_3B.webp", "img/sw4_3C.webp", "img/sw4_4A.webp", "img/sw4_4B.webp", "img/sw4_4C.webp", "img/sw4_4D.webp", "img/sw4_5AB.webp", "img/sw5_3A.webp", "img/sw5_3B.webp", "img/sw5_3C.webp", "img/sw5_4A.webp", "img/sw5_4B.webp", "img/sw5_4C.webp", "img/sw5_4D.webp", "img/sw5_5A.webp", "img/sw5_5B.webp", "img/sw6_3A.webp", "img/sw6_3B.webp", "img/sw6_3C.webp", "img/sw6_4A.webp", "img/sw6_4B.webp", "img/sw6_4C.webp", "img/sw6_4D.webp", "img/sw6_5A.webp", "img/sw6_5B.webp"];
 self.addEventListener('install', (e) => { self.skipWaiting(); e.waitUntil(caches.open(CACHE_VERSION).then((c) => Promise.all(PRECACHE_URLS.map((u) => c.add(u).catch(() => null))))); });
 self.addEventListener('activate', (e) => { e.waitUntil(caches.keys().then((ns) => Promise.all(ns.filter((n) => n.startsWith('nf-walls-') && n !== CACHE_VERSION).map((n) => caches.delete(n)))).then(() => self.clients.claim())); });
 self.addEventListener('fetch', (e) => { if (e.request.method !== 'GET') return;
+  if (new URL(e.request.url).pathname.endsWith('/version.json')) { e.respondWith(fetch(e.request, {cache: 'no-store'})); return; }
   e.respondWith(caches.match(e.request, {ignoreSearch: true}).then((hit) => hit || fetch(e.request).then((res) => { const copy = res.clone(); caches.open(CACHE_VERSION).then((c) => c.put(e.request, copy)); return res; }).catch(() => caches.match('index.html')))); });
